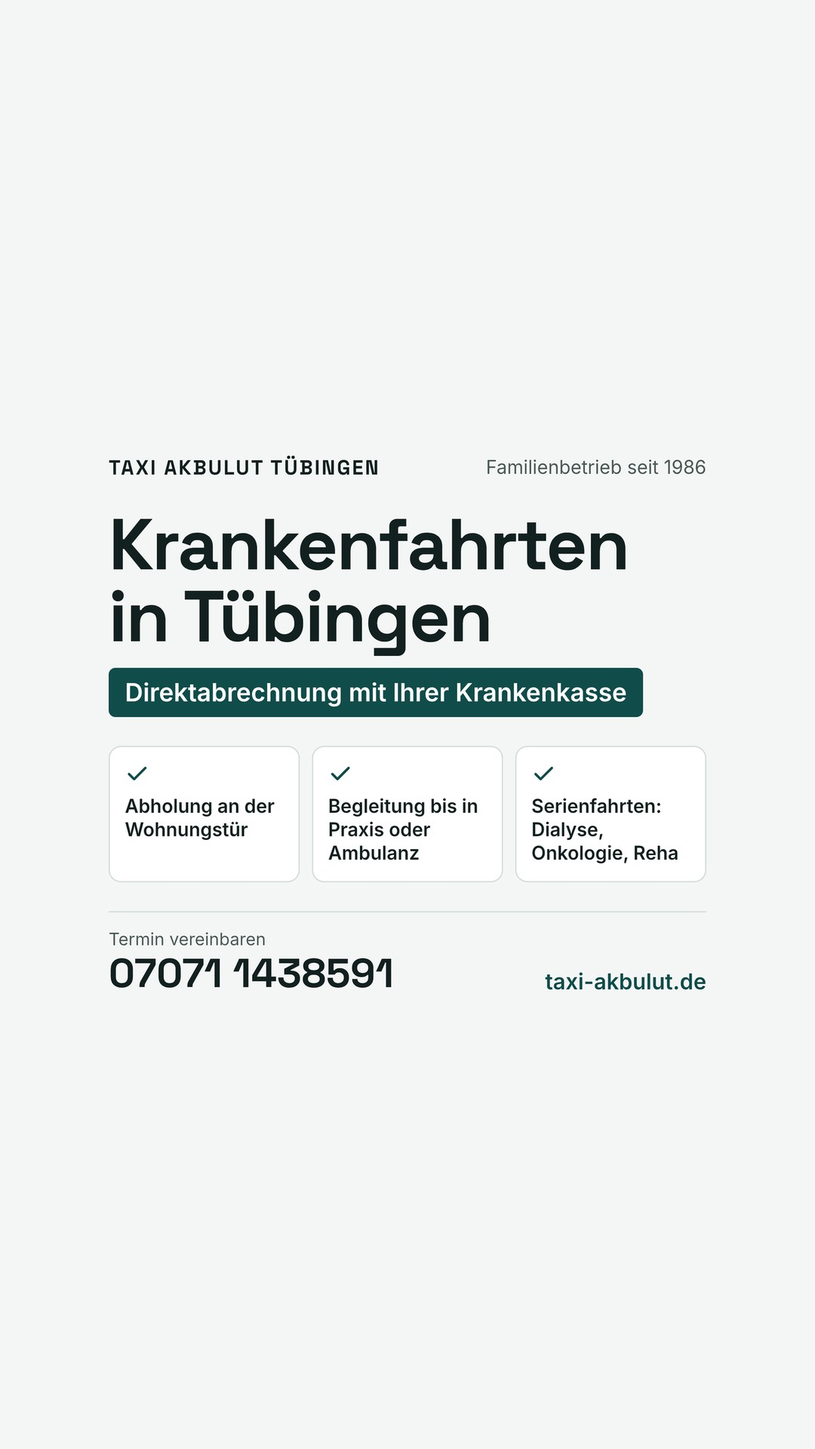
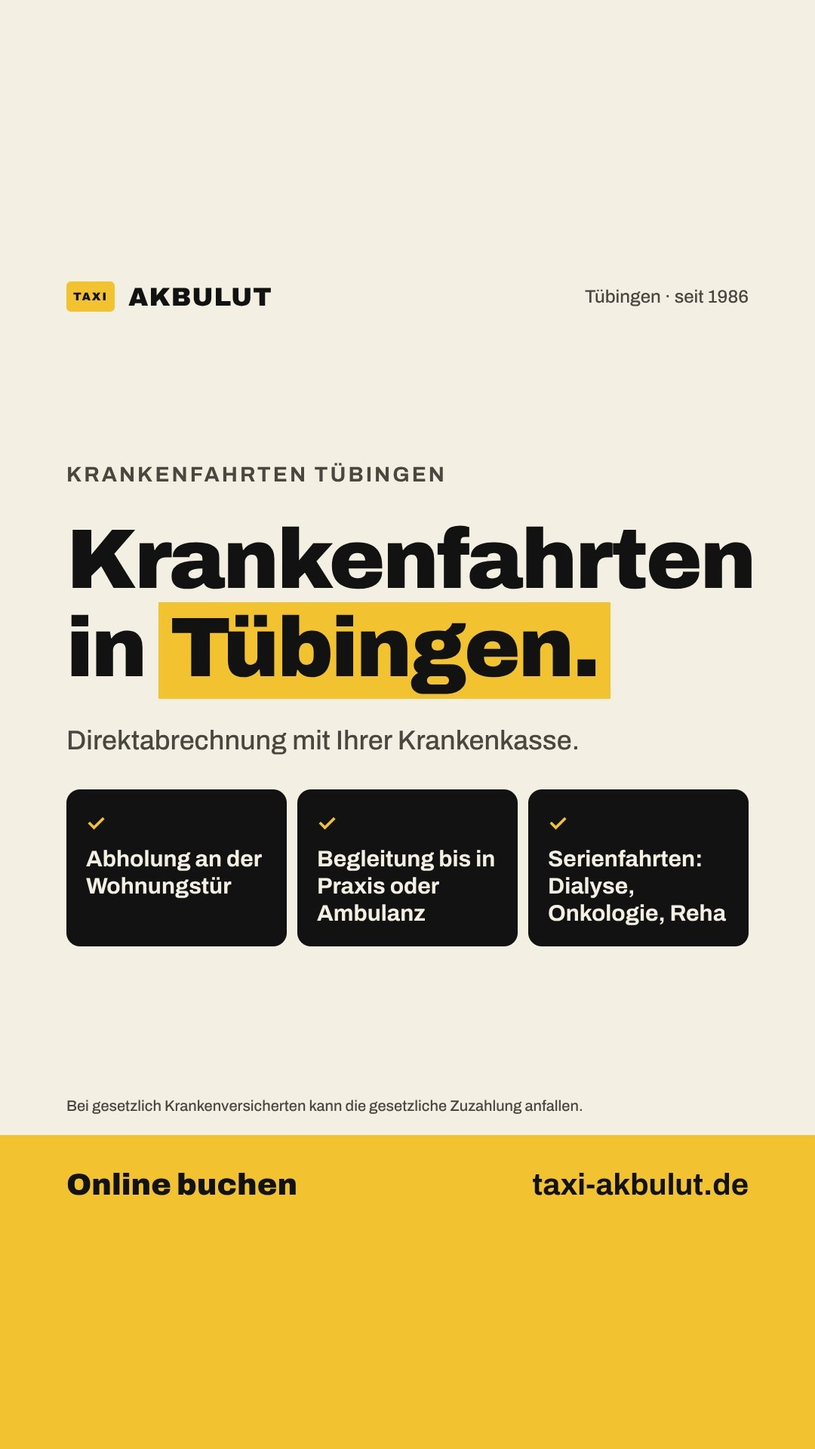
Krankenfahrten-Serie g01–g05 im Hausstil neu gerendert, Fakten ergänzt
Claude-Session: https://claude.ai/code/session_01BM3LR5oLC5knJwGmpcw9dv

diff --git a/motive/g02-chemo-strahlentherapie.html b/motive/g02-chemo-strahlentherapie.html
@@ -1,0 +1,17 @@
+<div style="width: 1080px; height: 1350px; box-sizing: border-box; background: #121212; color: #F4EFE3; font-family: 'Archivo', sans-serif; display: flex; flex-direction: column; padding: 88px; position: relative; overflow: hidden">
+<div style="display: flex; justify-content: space-between; align-items: center">
+<div style="display: flex; align-items: center; gap: 18px">
+<div style="width: 64px; height: 40px; background: #F2C230; color: #121212; border-radius: 6px; display: flex; align-items: center; justify-content: center; font-weight: 900; font-size: 15px; letter-spacing: 2px">TAXI</div>
+<div style="font-weight: 900; font-size: 34px; letter-spacing: 1px">AKBULUT</div>
+</div>
+<div style="font-weight: 500; font-size: 24px; color: #C9C3B6">Tübingen · seit 1986</div>
+</div>
+<div style="flex-grow: 1; display: flex; flex-direction: column; justify-content: center; gap: 40px">
+<div style="font-weight: 700; font-size: 28px; letter-spacing: 3px; color: #F2C230">KRANKENFAHRTEN ZU DEN TÜBINGER KLINIKEN</div><h1 style="margin: 0; font-weight: 900; font-size: 96px; line-height: 1.04; letter-spacing: -3px">Fahrten zur<br>Chemo- und<br><span style="background: #F2C230; color: #121212; padding: 0 16px 6px; white-space: nowrap">Strahlentherapie.</span></h1><p style="margin: 0; font-weight: 500; font-size: 32px; line-height: 1.35; color: #F4EFE3; max-width: 880px">Wir fahren Sie in diese Kliniken:</p><div style="display: grid; grid-template-columns: repeat(2, minmax(0, 1fr)); gap: 14px"><div style="background: #2A2926; color: #F4EFE3; border-radius: 18px; padding: 26px 26px; display: flex; flex-direction: column; gap: 12px"><span style="font-weight: 900; font-size: 30px; color: #F2C230">✓</span><span style="font-weight: 700; font-size: 34px; line-height: 1.2">Crona Kliniken</span></div><div style="background: #2A2926; color: #F4EFE3; border-radius: 18px; padding: 26px 26px; display: flex; flex-direction: column; gap: 12px"><span style="font-weight: 900; font-size: 30px; color: #F2C230">✓</span><span style="font-weight: 700; font-size: 34px; line-height: 1.2">Medizinische Klinik</span></div><div style="background: #2A2926; color: #F4EFE3; border-radius: 18px; padding: 26px 26px; display: flex; flex-direction: column; gap: 12px"><span style="font-weight: 900; font-size: 30px; color: #F2C230">✓</span><span style="font-weight: 700; font-size: 34px; line-height: 1.2">Frauenklinik</span></div><div style="background: #2A2926; color: #F4EFE3; border-radius: 18px; padding: 26px 26px; display: flex; flex-direction: column; gap: 12px"><span style="font-weight: 900; font-size: 30px; color: #F2C230">✓</span><span style="font-weight: 700; font-size: 34px; line-height: 1.2">Hautklinik</span></div></div>
+</div>
+<div style="font-weight: 500; font-size: 20px; color: #C9C3B6; margin-bottom: 28px">Direktabrechnung mit gesetzlichen Krankenkassen. Bei gesetzlich Krankenversicherten kann die gesetzliche Zuzahlung anfallen.</div>
+<div style="background: #F2C230; color: #121212; margin: 0 -88px -88px; padding: 44px 88px; display: flex; justify-content: space-between; align-items: center">
+<div style="font-weight: 900; font-size: 40px">Online buchen</div>
+<div style="font-weight: 700; font-size: 40px">taxi-akbulut.de</div>
+</div>
+</div>

diff --git a/vorlagen/g02-chemo-strahlentherapie.html b/vorlagen/g02-chemo-strahlentherapie.html
@@ -1,0 +1,17 @@
+<div style="width: 1080px; height: 1350px; box-sizing: border-box; background: #121212; color: #F4EFE3; font-family: 'Archivo', sans-serif; display: flex; flex-direction: column; padding: 88px; position: relative; overflow: hidden">
+<div style="display: flex; justify-content: space-between; align-items: center">
+<div style="display: flex; align-items: center; gap: 18px">
+<div style="width: 64px; height: 40px; background: #F2C230; color: #121212; border-radius: 6px; display: flex; align-items: center; justify-content: center; font-weight: 900; font-size: 15px; letter-spacing: 2px">TAXI</div>
+<div style="font-weight: 900; font-size: 34px; letter-spacing: 1px">AKBULUT</div>
+</div>
+<div style="font-weight: 500; font-size: 24px; color: #C9C3B6">Tübingen · seit 1986</div>
+</div>
+<div style="flex-grow: 1; display: flex; flex-direction: column; justify-content: center; gap: 40px">
+<div style="font-weight: 700; font-size: 28px; letter-spacing: 3px; color: #F2C230">KRANKENFAHRTEN ZU DEN TÜBINGER KLINIKEN</div><h1 style="margin: 0; font-weight: 900; font-size: 96px; line-height: 1.04; letter-spacing: -3px">Fahrten zur<br>Chemo- und<br><span style="background: #F2C230; color: #121212; padding: 0 16px 6px; white-space: nowrap">Strahlentherapie.</span></h1><p style="margin: 0; font-weight: 500; font-size: 32px; line-height: 1.35; color: #F4EFE3; max-width: 880px">Wir fahren Sie in diese Kliniken:</p><div style="display: grid; grid-template-columns: repeat(2, minmax(0, 1fr)); gap: 14px"><div style="background: #2A2926; color: #F4EFE3; border-radius: 18px; padding: 26px 26px; display: flex; flex-direction: column; gap: 12px"><span style="font-weight: 900; font-size: 30px; color: #F2C230">✓</span><span style="font-weight: 700; font-size: 34px; line-height: 1.2">Crona Kliniken</span></div><div style="background: #2A2926; color: #F4EFE3; border-radius: 18px; padding: 26px 26px; display: flex; flex-direction: column; gap: 12px"><span style="font-weight: 900; font-size: 30px; color: #F2C230">✓</span><span style="font-weight: 700; font-size: 34px; line-height: 1.2">Medizinische Klinik</span></div><div style="background: #2A2926; color: #F4EFE3; border-radius: 18px; padding: 26px 26px; display: flex; flex-direction: column; gap: 12px"><span style="font-weight: 900; font-size: 30px; color: #F2C230">✓</span><span style="font-weight: 700; font-size: 34px; line-height: 1.2">Frauenklinik</span></div><div style="background: #2A2926; color: #F4EFE3; border-radius: 18px; padding: 26px 26px; display: flex; flex-direction: column; gap: 12px"><span style="font-weight: 900; font-size: 30px; color: #F2C230">✓</span><span style="font-weight: 700; font-size: 34px; line-height: 1.2">Hautklinik</span></div></div>
+</div>
+<div style="font-weight: 500; font-size: 20px; color: #C9C3B6; margin-bottom: 28px">Direktabrechnung mit gesetzlichen Krankenkassen. Bei gesetzlich Krankenversicherten kann die gesetzliche Zuzahlung anfallen.</div>
+<div style="background: #F2C230; color: #121212; margin: 0 -88px -88px; padding: 44px 88px; display: flex; justify-content: space-between; align-items: center">
+<div style="font-weight: 900; font-size: 40px">Online buchen</div>
+<div style="font-weight: 700; font-size: 40px">taxi-akbulut.de</div>
+</div>
+</div>

diff --git a/motive/g05-genehmigung-check.html b/motive/g05-genehmigung-check.html
@@ -1,0 +1,17 @@
+<div style="width: 1080px; height: 1350px; box-sizing: border-box; background: #121212; color: #F4EFE3; font-family: 'Archivo', sans-serif; display: flex; flex-direction: column; padding: 88px; position: relative; overflow: hidden">
+<div style="display: flex; justify-content: space-between; align-items: center">
+<div style="display: flex; align-items: center; gap: 18px">
+<div style="width: 64px; height: 40px; background: #F2C230; color: #121212; border-radius: 6px; display: flex; align-items: center; justify-content: center; font-weight: 900; font-size: 15px; letter-spacing: 2px">TAXI</div>
+<div style="font-weight: 900; font-size: 34px; letter-spacing: 1px">AKBULUT</div>
+</div>
+<div style="font-weight: 500; font-size: 24px; color: #C9C3B6">Tübingen · seit 1986</div>
+</div>
+<div style="flex-grow: 1; display: flex; flex-direction: column; justify-content: center; gap: 40px">
+<div style="font-weight: 700; font-size: 28px; letter-spacing: 3px; color: #F2C230">KRANKENFAHRT · ONLINE-CHECK</div><h1 style="margin: 0; font-weight: 900; font-size: 116px; line-height: 1.04; letter-spacing: -3px">Genehmigung<br><span style="background: #F2C230; color: #121212; padding: 0 16px 6px; white-space: nowrap">nötig?</span></h1><p style="margin: 0; font-weight: 500; font-size: 34px; line-height: 1.35; color: #F4EFE3; max-width: 880px">Höchstens 5 Fragen, Ergebnis sofort, ohne Anmeldung. Eines von drei Ergebnissen:</p><div style="display: grid; grid-template-columns: repeat(3, minmax(0, 1fr)); gap: 14px"><div style="background: #2A2926; color: #F4EFE3; border-radius: 18px; padding: 26px 26px; display: flex; flex-direction: column; gap: 12px"><span style="font-weight: 900; font-size: 30px; color: #F2C230">✓</span><span style="font-weight: 700; font-size: 32px; line-height: 1.2">Genehmigungs&shy;frei</span></div><div style="background: #2A2926; color: #F4EFE3; border-radius: 18px; padding: 26px 26px; display: flex; flex-direction: column; gap: 12px"><span style="font-weight: 900; font-size: 30px; color: #F2C230">✓</span><span style="font-weight: 700; font-size: 32px; line-height: 1.2">Antrag nötig</span></div><div style="background: #2A2926; color: #F4EFE3; border-radius: 18px; padding: 26px 26px; display: flex; flex-direction: column; gap: 12px"><span style="font-weight: 900; font-size: 30px; color: #F2C230">✓</span><span style="font-weight: 700; font-size: 32px; line-height: 1.2">Keine Übernahme</span></div></div><div style="font-weight: 900; font-size: 36px; white-space: nowrap; color: #F2C230">taxi-akbulut.de/krankenfahrten-tuebingen</div>
+</div>
+<div style="font-weight: 500; font-size: 20px; color: #C9C3B6; margin-bottom: 28px">Grundlage: § 60 SGB V und Krankentransport-Richtlinie. Im Einzelfall entscheidet Ihre Krankenkasse.</div>
+<div style="background: #F2C230; color: #121212; margin: 0 -88px -88px; padding: 44px 88px; display: flex; justify-content: space-between; align-items: center">
+<div style="font-weight: 900; font-size: 40px">Jetzt prüfen</div>
+<div style="font-weight: 700; font-size: 40px">taxi-akbulut.de</div>
+</div>
+</div>

diff --git a/vorlagen/g05-genehmigung-check.html b/vorlagen/g05-genehmigung-check.html
@@ -1,0 +1,17 @@
+<div style="width: 1080px; height: 1350px; box-sizing: border-box; background: #121212; color: #F4EFE3; font-family: 'Archivo', sans-serif; display: flex; flex-direction: column; padding: 88px; position: relative; overflow: hidden">
+<div style="display: flex; justify-content: space-between; align-items: center">
+<div style="display: flex; align-items: center; gap: 18px">
+<div style="width: 64px; height: 40px; background: #F2C230; color: #121212; border-radius: 6px; display: flex; align-items: center; justify-content: center; font-weight: 900; font-size: 15px; letter-spacing: 2px">TAXI</div>
+<div style="font-weight: 900; font-size: 34px; letter-spacing: 1px">AKBULUT</div>
+</div>
+<div style="font-weight: 500; font-size: 24px; color: #C9C3B6">Tübingen · seit 1986</div>
+</div>
+<div style="flex-grow: 1; display: flex; flex-direction: column; justify-content: center; gap: 40px">
+<div style="font-weight: 700; font-size: 28px; letter-spacing: 3px; color: #F2C230">KRANKENFAHRT · ONLINE-CHECK</div><h1 style="margin: 0; font-weight: 900; font-size: 116px; line-height: 1.04; letter-spacing: -3px">Genehmigung<br><span style="background: #F2C230; color: #121212; padding: 0 16px 6px; white-space: nowrap">nötig?</span></h1><p style="margin: 0; font-weight: 500; font-size: 34px; line-height: 1.35; color: #F4EFE3; max-width: 880px">Höchstens 5 Fragen, Ergebnis sofort, ohne Anmeldung. Eines von drei Ergebnissen:</p><div style="display: grid; grid-template-columns: repeat(3, minmax(0, 1fr)); gap: 14px"><div style="background: #2A2926; color: #F4EFE3; border-radius: 18px; padding: 26px 26px; display: flex; flex-direction: column; gap: 12px"><span style="font-weight: 900; font-size: 30px; color: #F2C230">✓</span><span style="font-weight: 700; font-size: 32px; line-height: 1.2">Genehmigungs&shy;frei</span></div><div style="background: #2A2926; color: #F4EFE3; border-radius: 18px; padding: 26px 26px; display: flex; flex-direction: column; gap: 12px"><span style="font-weight: 900; font-size: 30px; color: #F2C230">✓</span><span style="font-weight: 700; font-size: 32px; line-height: 1.2">Antrag nötig</span></div><div style="background: #2A2926; color: #F4EFE3; border-radius: 18px; padding: 26px 26px; display: flex; flex-direction: column; gap: 12px"><span style="font-weight: 900; font-size: 30px; color: #F2C230">✓</span><span style="font-weight: 700; font-size: 32px; line-height: 1.2">Keine Übernahme</span></div></div><div style="font-weight: 900; font-size: 36px; white-space: nowrap; color: #F2C230">taxi-akbulut.de/krankenfahrten-tuebingen</div>
+</div>
+<div style="font-weight: 500; font-size: 20px; color: #C9C3B6; margin-bottom: 28px">Grundlage: § 60 SGB V und Krankentransport-Richtlinie. Im Einzelfall entscheidet Ihre Krankenkasse.</div>
+<div style="background: #F2C230; color: #121212; margin: 0 -88px -88px; padding: 44px 88px; display: flex; justify-content: space-between; align-items: center">
+<div style="font-weight: 900; font-size: 40px">Jetzt prüfen</div>
+<div style="font-weight: 700; font-size: 40px">taxi-akbulut.de</div>
+</div>
+</div>

diff --git a/motive/g03-entlassfahrten.html b/motive/g03-entlassfahrten.html
@@ -1,0 +1,17 @@
+<div style="width: 1080px; height: 1350px; box-sizing: border-box; background: #F2C230; color: #121212; font-family: 'Archivo', sans-serif; display: flex; flex-direction: column; padding: 88px; position: relative; overflow: hidden">
+<div style="display: flex; justify-content: space-between; align-items: center">
+<div style="display: flex; align-items: center; gap: 18px">
+<div style="width: 64px; height: 40px; background: #121212; color: #F2C230; border-radius: 6px; display: flex; align-items: center; justify-content: center; font-weight: 900; font-size: 15px; letter-spacing: 2px">TAXI</div>
+<div style="font-weight: 900; font-size: 34px; letter-spacing: 1px">AKBULUT</div>
+</div>
+<div style="font-weight: 500; font-size: 24px; color: #2B2924">Tübingen · seit 1986</div>
+</div>
+<div style="flex-grow: 1; display: flex; flex-direction: column; justify-content: center; gap: 40px">
+<div style="font-weight: 700; font-size: 28px; letter-spacing: 3px; color: #2B2924">HEIMFAHRT NACH DEM KLINIKAUFENTHALT</div><h1 style="margin: 0; font-weight: 900; font-size: 108px; line-height: 1.04; letter-spacing: -3px">Entlassfahrten<br><span style="background: #121212; color: #F2C230; padding: 0 16px 6px; white-space: nowrap">ab der Klinik.</span></h1><p style="margin: 0; font-weight: 500; font-size: 36px; line-height: 1.35; color: #2B2924; max-width: 880px">Direktabrechnung mit gesetzlichen Krankenkassen.</p><div style="display: grid; grid-template-columns: repeat(3, minmax(0, 1fr)); gap: 14px"><div style="background: #FFFFFF; color: #121212; border-radius: 18px; padding: 26px 26px; display: flex; flex-direction: column; gap: 12px"><span style="font-weight: 900; font-size: 30px; color: #121212">✓</span><span style="font-weight: 700; font-size: 30px; line-height: 1.2">Abholung direkt an der Klinik</span></div><div style="background: #FFFFFF; color: #121212; border-radius: 18px; padding: 26px 26px; display: flex; flex-direction: column; gap: 12px"><span style="font-weight: 900; font-size: 30px; color: #121212">✓</span><span style="font-weight: 700; font-size: 30px; line-height: 1.2">Faltbarer Rollstuhl fährt mit</span></div><div style="background: #FFFFFF; color: #121212; border-radius: 18px; padding: 26px 26px; display: flex; flex-direction: column; gap: 12px"><span style="font-weight: 900; font-size: 30px; color: #121212">✓</span><span style="font-weight: 700; font-size: 30px; line-height: 1.2">Heimfahrten deutschlandweit</span></div></div>
+</div>
+<div style="font-weight: 500; font-size: 20px; color: #2B2924; margin-bottom: 28px">Bei gesetzlich Krankenversicherten kann die gesetzliche Zuzahlung anfallen. Für Fahrten im Sitzen.</div>
+<div style="background: #121212; color: #F4EFE3; margin: 0 -88px -88px; padding: 44px 88px; display: flex; justify-content: space-between; align-items: center">
+<div style="font-weight: 900; font-size: 40px">Online buchen</div>
+<div style="font-weight: 700; font-size: 40px">taxi-akbulut.de</div>
+</div>
+</div>

diff --git a/vorlagen/g03-entlassfahrten.html b/vorlagen/g03-entlassfahrten.html
@@ -1,0 +1,17 @@
+<div style="width: 1080px; height: 1350px; box-sizing: border-box; background: #F2C230; color: #121212; font-family: 'Archivo', sans-serif; display: flex; flex-direction: column; padding: 88px; position: relative; overflow: hidden">
+<div style="display: flex; justify-content: space-between; align-items: center">
+<div style="display: flex; align-items: center; gap: 18px">
+<div style="width: 64px; height: 40px; background: #121212; color: #F2C230; border-radius: 6px; display: flex; align-items: center; justify-content: center; font-weight: 900; font-size: 15px; letter-spacing: 2px">TAXI</div>
+<div style="font-weight: 900; font-size: 34px; letter-spacing: 1px">AKBULUT</div>
+</div>
+<div style="font-weight: 500; font-size: 24px; color: #2B2924">Tübingen · seit 1986</div>
+</div>
+<div style="flex-grow: 1; display: flex; flex-direction: column; justify-content: center; gap: 40px">
+<div style="font-weight: 700; font-size: 28px; letter-spacing: 3px; color: #2B2924">HEIMFAHRT NACH DEM KLINIKAUFENTHALT</div><h1 style="margin: 0; font-weight: 900; font-size: 108px; line-height: 1.04; letter-spacing: -3px">Entlassfahrten<br><span style="background: #121212; color: #F2C230; padding: 0 16px 6px; white-space: nowrap">ab der Klinik.</span></h1><p style="margin: 0; font-weight: 500; font-size: 36px; line-height: 1.35; color: #2B2924; max-width: 880px">Direktabrechnung mit gesetzlichen Krankenkassen.</p><div style="display: grid; grid-template-columns: repeat(3, minmax(0, 1fr)); gap: 14px"><div style="background: #FFFFFF; color: #121212; border-radius: 18px; padding: 26px 26px; display: flex; flex-direction: column; gap: 12px"><span style="font-weight: 900; font-size: 30px; color: #121212">✓</span><span style="font-weight: 700; font-size: 30px; line-height: 1.2">Abholung direkt an der Klinik</span></div><div style="background: #FFFFFF; color: #121212; border-radius: 18px; padding: 26px 26px; display: flex; flex-direction: column; gap: 12px"><span style="font-weight: 900; font-size: 30px; color: #121212">✓</span><span style="font-weight: 700; font-size: 30px; line-height: 1.2">Faltbarer Rollstuhl fährt mit</span></div><div style="background: #FFFFFF; color: #121212; border-radius: 18px; padding: 26px 26px; display: flex; flex-direction: column; gap: 12px"><span style="font-weight: 900; font-size: 30px; color: #121212">✓</span><span style="font-weight: 700; font-size: 30px; line-height: 1.2">Heimfahrten deutschlandweit</span></div></div>
+</div>
+<div style="font-weight: 500; font-size: 20px; color: #2B2924; margin-bottom: 28px">Bei gesetzlich Krankenversicherten kann die gesetzliche Zuzahlung anfallen. Für Fahrten im Sitzen.</div>
+<div style="background: #121212; color: #F4EFE3; margin: 0 -88px -88px; padding: 44px 88px; display: flex; justify-content: space-between; align-items: center">
+<div style="font-weight: 900; font-size: 40px">Online buchen</div>
+<div style="font-weight: 700; font-size: 40px">taxi-akbulut.de</div>
+</div>
+</div>

diff --git a/motive/g01-krankenfahrten-tuebingen.html b/motive/g01-krankenfahrten-tuebingen.html
@@ -1,0 +1,17 @@
+<div style="width: 1080px; height: 1350px; box-sizing: border-box; background: #F4EFE3; color: #121212; font-family: 'Archivo', sans-serif; display: flex; flex-direction: column; padding: 88px; position: relative; overflow: hidden">
+<div style="display: flex; justify-content: space-between; align-items: center">
+<div style="display: flex; align-items: center; gap: 18px">
+<div style="width: 64px; height: 40px; background: #F2C230; color: #121212; border-radius: 6px; display: flex; align-items: center; justify-content: center; font-weight: 900; font-size: 15px; letter-spacing: 2px">TAXI</div>
+<div style="font-weight: 900; font-size: 34px; letter-spacing: 1px">AKBULUT</div>
+</div>
+<div style="font-weight: 500; font-size: 24px; color: #4A4740">Tübingen · seit 1986</div>
+</div>
+<div style="flex-grow: 1; display: flex; flex-direction: column; justify-content: center; gap: 40px">
+<div style="font-weight: 700; font-size: 28px; letter-spacing: 3px; color: #4A4740">KRANKENFAHRTEN TÜBINGEN</div><h1 style="margin: 0; font-weight: 900; font-size: 112px; line-height: 1.04; letter-spacing: -3px">Krankenfahrten<br>in <span style="background: #F2C230; color: #121212; padding: 0 16px 6px; white-space: nowrap">Tübingen.</span></h1><p style="margin: 0; font-weight: 500; font-size: 36px; line-height: 1.35; color: #4A4740; max-width: 880px">Direktabrechnung mit Ihrer Krankenkasse.</p><div style="display: grid; grid-template-columns: repeat(3, minmax(0, 1fr)); gap: 14px"><div style="background: #121212; color: #F4EFE3; border-radius: 18px; padding: 26px 26px; display: flex; flex-direction: column; gap: 12px"><span style="font-weight: 900; font-size: 30px; color: #F2C230">✓</span><span style="font-weight: 700; font-size: 30px; line-height: 1.2">Abholung an der Wohnungstür</span></div><div style="background: #121212; color: #F4EFE3; border-radius: 18px; padding: 26px 26px; display: flex; flex-direction: column; gap: 12px"><span style="font-weight: 900; font-size: 30px; color: #F2C230">✓</span><span style="font-weight: 700; font-size: 30px; line-height: 1.2">Begleitung bis in Praxis oder Ambulanz</span></div><div style="background: #121212; color: #F4EFE3; border-radius: 18px; padding: 26px 26px; display: flex; flex-direction: column; gap: 12px"><span style="font-weight: 900; font-size: 30px; color: #F2C230">✓</span><span style="font-weight: 700; font-size: 30px; line-height: 1.2">Serienfahrten: Dialyse, Onkologie, Reha</span></div></div>
+</div>
+<div style="font-weight: 500; font-size: 20px; color: #4A4740; margin-bottom: 28px">Bei gesetzlich Krankenversicherten kann die gesetzliche Zuzahlung anfallen.</div>
+<div style="background: #F2C230; color: #121212; margin: 0 -88px -88px; padding: 44px 88px; display: flex; justify-content: space-between; align-items: center">
+<div style="font-weight: 900; font-size: 40px">Online buchen</div>
+<div style="font-weight: 700; font-size: 40px">taxi-akbulut.de</div>
+</div>
+</div>

diff --git a/vorlagen/g01-krankenfahrten-tuebingen.html b/vorlagen/g01-krankenfahrten-tuebingen.html
@@ -1,0 +1,17 @@
+<div style="width: 1080px; height: 1350px; box-sizing: border-box; background: #F4EFE3; color: #121212; font-family: 'Archivo', sans-serif; display: flex; flex-direction: column; padding: 88px; position: relative; overflow: hidden">
+<div style="display: flex; justify-content: space-between; align-items: center">
+<div style="display: flex; align-items: center; gap: 18px">
+<div style="width: 64px; height: 40px; background: #F2C230; color: #121212; border-radius: 6px; display: flex; align-items: center; justify-content: center; font-weight: 900; font-size: 15px; letter-spacing: 2px">TAXI</div>
+<div style="font-weight: 900; font-size: 34px; letter-spacing: 1px">AKBULUT</div>
+</div>
+<div style="font-weight: 500; font-size: 24px; color: #4A4740">Tübingen · seit 1986</div>
+</div>
+<div style="flex-grow: 1; display: flex; flex-direction: column; justify-content: center; gap: 40px">
+<div style="font-weight: 700; font-size: 28px; letter-spacing: 3px; color: #4A4740">KRANKENFAHRTEN TÜBINGEN</div><h1 style="margin: 0; font-weight: 900; font-size: 112px; line-height: 1.04; letter-spacing: -3px">Krankenfahrten<br>in <span style="background: #F2C230; color: #121212; padding: 0 16px 6px; white-space: nowrap">Tübingen.</span></h1><p style="margin: 0; font-weight: 500; font-size: 36px; line-height: 1.35; color: #4A4740; max-width: 880px">Direktabrechnung mit Ihrer Krankenkasse.</p><div style="display: grid; grid-template-columns: repeat(3, minmax(0, 1fr)); gap: 14px"><div style="background: #121212; color: #F4EFE3; border-radius: 18px; padding: 26px 26px; display: flex; flex-direction: column; gap: 12px"><span style="font-weight: 900; font-size: 30px; color: #F2C230">✓</span><span style="font-weight: 700; font-size: 30px; line-height: 1.2">Abholung an der Wohnungstür</span></div><div style="background: #121212; color: #F4EFE3; border-radius: 18px; padding: 26px 26px; display: flex; flex-direction: column; gap: 12px"><span style="font-weight: 900; font-size: 30px; color: #F2C230">✓</span><span style="font-weight: 700; font-size: 30px; line-height: 1.2">Begleitung bis in Praxis oder Ambulanz</span></div><div style="background: #121212; color: #F4EFE3; border-radius: 18px; padding: 26px 26px; display: flex; flex-direction: column; gap: 12px"><span style="font-weight: 900; font-size: 30px; color: #F2C230">✓</span><span style="font-weight: 700; font-size: 30px; line-height: 1.2">Serienfahrten: Dialyse, Onkologie, Reha</span></div></div>
+</div>
+<div style="font-weight: 500; font-size: 20px; color: #4A4740; margin-bottom: 28px">Bei gesetzlich Krankenversicherten kann die gesetzliche Zuzahlung anfallen.</div>
+<div style="background: #F2C230; color: #121212; margin: 0 -88px -88px; padding: 44px 88px; display: flex; justify-content: space-between; align-items: center">
+<div style="font-weight: 900; font-size: 40px">Online buchen</div>
+<div style="font-weight: 700; font-size: 40px">taxi-akbulut.de</div>
+</div>
+</div>

diff --git a/motive/g04-kinder-jugendpsychiatrie.html b/motive/g04-kinder-jugendpsychiatrie.html
@@ -1,0 +1,17 @@
+<div style="width: 1080px; height: 1350px; box-sizing: border-box; background: #F4EFE3; color: #121212; font-family: 'Archivo', sans-serif; display: flex; flex-direction: column; padding: 88px; position: relative; overflow: hidden">
+<div style="display: flex; justify-content: space-between; align-items: center">
+<div style="display: flex; align-items: center; gap: 18px">
+<div style="width: 64px; height: 40px; background: #F2C230; color: #121212; border-radius: 6px; display: flex; align-items: center; justify-content: center; font-weight: 900; font-size: 15px; letter-spacing: 2px">TAXI</div>
+<div style="font-weight: 900; font-size: 34px; letter-spacing: 1px">AKBULUT</div>
+</div>
+<div style="font-weight: 500; font-size: 24px; color: #4A4740">Tübingen · seit 1986</div>
+</div>
+<div style="flex-grow: 1; display: flex; flex-direction: column; justify-content: center; gap: 40px">
+<div style="font-weight: 700; font-size: 28px; letter-spacing: 3px; color: #4A4740">KRANKENFAHRTEN FÜR KINDER UND JUGENDLICHE</div><h1 style="margin: 0; font-weight: 900; font-size: 92px; line-height: 1.04; letter-spacing: -3px">Fahrten zur Kinder-<br>und Jugend-<br><span style="background: #F2C230; color: #121212; padding: 0 16px 6px; white-space: nowrap">psychiatrie.</span></h1><div style="display: grid; grid-template-columns: repeat(2, minmax(0, 1fr)); gap: 14px"><div style="background: #121212; color: #F4EFE3; border-radius: 18px; padding: 26px 26px; display: flex; flex-direction: column; gap: 12px"><span style="font-weight: 900; font-size: 30px; color: #F2C230">✓</span><span style="font-weight: 700; font-size: 34px; line-height: 1.2">Live-Tracking-Link für die Eltern</span></div><div style="background: #121212; color: #F4EFE3; border-radius: 18px; padding: 26px 26px; display: flex; flex-direction: column; gap: 12px"><span style="font-weight: 900; font-size: 30px; color: #F2C230">✓</span><span style="font-weight: 700; font-size: 34px; line-height: 1.2">Direktabrechnung mit den gesetzlichen Krankenkassen</span></div></div>
+</div>
+<div style="font-weight: 500; font-size: 20px; color: #4A4740; margin-bottom: 28px">Kinder- und Jugendpsychiatrie Tübingen. Bei gesetzlich Krankenversicherten kann die gesetzliche Zuzahlung anfallen.</div>
+<div style="background: #F2C230; color: #121212; margin: 0 -88px -88px; padding: 44px 88px; display: flex; justify-content: space-between; align-items: center">
+<div style="font-weight: 900; font-size: 40px">Online buchen</div>
+<div style="font-weight: 700; font-size: 40px">taxi-akbulut.de</div>
+</div>
+</div>

diff --git a/vorlagen/g04-kinder-jugendpsychiatrie.html b/vorlagen/g04-kinder-jugendpsychiatrie.html
@@ -1,0 +1,17 @@
+<div style="width: 1080px; height: 1350px; box-sizing: border-box; background: #F4EFE3; color: #121212; font-family: 'Archivo', sans-serif; display: flex; flex-direction: column; padding: 88px; position: relative; overflow: hidden">
+<div style="display: flex; justify-content: space-between; align-items: center">
+<div style="display: flex; align-items: center; gap: 18px">
+<div style="width: 64px; height: 40px; background: #F2C230; color: #121212; border-radius: 6px; display: flex; align-items: center; justify-content: center; font-weight: 900; font-size: 15px; letter-spacing: 2px">TAXI</div>
+<div style="font-weight: 900; font-size: 34px; letter-spacing: 1px">AKBULUT</div>
+</div>
+<div style="font-weight: 500; font-size: 24px; color: #4A4740">Tübingen · seit 1986</div>
+</div>
+<div style="flex-grow: 1; display: flex; flex-direction: column; justify-content: center; gap: 40px">
+<div style="font-weight: 700; font-size: 28px; letter-spacing: 3px; color: #4A4740">KRANKENFAHRTEN FÜR KINDER UND JUGENDLICHE</div><h1 style="margin: 0; font-weight: 900; font-size: 92px; line-height: 1.04; letter-spacing: -3px">Fahrten zur Kinder-<br>und Jugend-<br><span style="background: #F2C230; color: #121212; padding: 0 16px 6px; white-space: nowrap">psychiatrie.</span></h1><div style="display: grid; grid-template-columns: repeat(2, minmax(0, 1fr)); gap: 14px"><div style="background: #121212; color: #F4EFE3; border-radius: 18px; padding: 26px 26px; display: flex; flex-direction: column; gap: 12px"><span style="font-weight: 900; font-size: 30px; color: #F2C230">✓</span><span style="font-weight: 700; font-size: 34px; line-height: 1.2">Live-Tracking-Link für die Eltern</span></div><div style="background: #121212; color: #F4EFE3; border-radius: 18px; padding: 26px 26px; display: flex; flex-direction: column; gap: 12px"><span style="font-weight: 900; font-size: 30px; color: #F2C230">✓</span><span style="font-weight: 700; font-size: 34px; line-height: 1.2">Direktabrechnung mit den gesetzlichen Krankenkassen</span></div></div>
+</div>
+<div style="font-weight: 500; font-size: 20px; color: #4A4740; margin-bottom: 28px">Kinder- und Jugendpsychiatrie Tübingen. Bei gesetzlich Krankenversicherten kann die gesetzliche Zuzahlung anfallen.</div>
+<div style="background: #F2C230; color: #121212; margin: 0 -88px -88px; padding: 44px 88px; display: flex; justify-content: space-between; align-items: center">
+<div style="font-weight: 900; font-size: 40px">Online buchen</div>
+<div style="font-weight: 700; font-size: 40px">taxi-akbulut.de</div>
+</div>
+</div>

diff --git a/vorlagen/g_build.py b/vorlagen/g_build.py
@@ -1,0 +1,65 @@
+"""Baut die Krankenfahrt-Serie g01–g05 im Hausstil (Archivo, Elfenbein/Schwarz/Gelb)."""
+T = {
+ "hell":  dict(bg="#F4EFE3", fg="#121212", sub="#4A4740", eye="#4A4740", mbg="#F2C230", mfg="#121212",
+               cbg="#121212", cfg="#F4EFE3", acc="#F2C230", fbg="#F2C230", ffg="#121212", bbg="#F2C230", bfg="#121212"),
+ "schwarz": dict(bg="#121212", fg="#F4EFE3", sub="#C9C3B6", eye="#F2C230", mbg="#F2C230", mfg="#121212",
+               cbg="#2A2926", cfg="#F4EFE3", acc="#F2C230", fbg="#F2C230", ffg="#121212", bbg="#F2C230", bfg="#121212"),
+ "gelb":  dict(bg="#F2C230", fg="#121212", sub="#2B2924", eye="#2B2924", mbg="#121212", mfg="#F2C230",
+               cbg="#FFFFFF", cfg="#121212", acc="#121212", fbg="#121212", ffg="#F4EFE3", bbg="#121212", bfg="#F2C230"),
+}
+def mark(t, s): return f'<span style="background: {t["mbg"]}; color: {t["mfg"]}; padding: 0 16px 6px; white-space: nowrap">{s}</span>'
+def cards(t, items, cols, size=32):
+    h = "".join(f'<div style="background: {t["cbg"]}; color: {t["cfg"]}; border-radius: 18px; padding: 26px 26px; display: flex; flex-direction: column; gap: 12px"><span style="font-weight: 900; font-size: 30px; color: {t["acc"]}">✓</span><span style="font-weight: 700; font-size: {size}px; line-height: 1.2">{i}</span></div>' for i in items)
+    return f'<div style="display: grid; grid-template-columns: repeat({cols}, minmax(0, 1fr)); gap: 14px">{h}</div>'
+def para(t, s, size=36): return f'<p style="margin: 0; font-weight: 500; font-size: {size}px; line-height: 1.35; color: {t["sub"] if t["bg"]!="#121212" else "#F4EFE3"}; max-width: 880px">{s}</p>'
+def frame(theme, eyebrow, h1, h1size, middle, small, foot_l="Online buchen"):
+    t = T[theme]
+    return f'''<div style="width: 1080px; height: 1350px; box-sizing: border-box; background: {t["bg"]}; color: {t["fg"]}; font-family: 'Archivo', sans-serif; display: flex; flex-direction: column; padding: 88px; position: relative; overflow: hidden">
+<div style="display: flex; justify-content: space-between; align-items: center">
+<div style="display: flex; align-items: center; gap: 18px">
+<div style="width: 64px; height: 40px; background: {t["bbg"]}; color: {t["bfg"]}; border-radius: 6px; display: flex; align-items: center; justify-content: center; font-weight: 900; font-size: 15px; letter-spacing: 2px">TAXI</div>
+<div style="font-weight: 900; font-size: 34px; letter-spacing: 1px">AKBULUT</div>
+</div>
+<div style="font-weight: 500; font-size: 24px; color: {t["sub"]}">Tübingen · seit 1986</div>
+</div>
+<div style="flex-grow: 1; display: flex; flex-direction: column; justify-content: center; gap: 40px">
+<div style="font-weight: 700; font-size: 28px; letter-spacing: 3px; color: {t["eye"]}">{eyebrow}</div><h1 style="margin: 0; font-weight: 900; font-size: {h1size}px; line-height: 1.04; letter-spacing: -3px">{h1}</h1>{middle}
+</div>
+<div style="font-weight: 500; font-size: 20px; color: {t["sub"]}; margin-bottom: 28px">{small}</div>
+<div style="background: {t["fbg"]}; color: {t["ffg"]}; margin: 0 -88px -88px; padding: 44px 88px; display: flex; justify-content: space-between; align-items: center">
+<div style="font-weight: 900; font-size: 40px">{foot_l}</div>
+<div style="font-weight: 700; font-size: 40px">taxi-akbulut.de</div>
+</div>
+</div>
+'''
+ZZ = "Bei gesetzlich Krankenversicherten kann die gesetzliche Zuzahlung anfallen."
+M = {}
+t = T["hell"]
+M["g01-krankenfahrten-tuebingen"] = frame("hell", "KRANKENFAHRTEN TÜBINGEN",
+    "Krankenfahrten<br>in " + mark(t, "Tübingen."), 112,
+    para(t, "Direktabrechnung mit Ihrer Krankenkasse.") + cards(t, ["Abholung an der Wohnungstür", "Begleitung bis in Praxis oder Ambulanz", "Serienfahrten: Dialyse, Onkologie, Reha"], 3, 30), ZZ)
+t = T["schwarz"]
+M["g02-chemo-strahlentherapie"] = frame("schwarz", "KRANKENFAHRTEN ZU DEN TÜBINGER KLINIKEN",
+    "Fahrten zur<br>Chemo- und<br>" + mark(t, "Strahlentherapie."), 96,
+    para(t, "Wir fahren Sie in diese Kliniken:", 32) + cards(t, ["Crona Kliniken", "Medizinische Klinik", "Frauenklinik", "Hautklinik"], 2, 34),
+    "Direktabrechnung mit gesetzlichen Krankenkassen. " + ZZ)
+t = T["gelb"]
+M["g03-entlassfahrten"] = frame("gelb", "HEIMFAHRT NACH DEM KLINIKAUFENTHALT",
+    "Entlassfahrten<br>" + mark(t, "ab der Klinik."), 108,
+    para(t, "Direktabrechnung mit gesetzlichen Krankenkassen.") + cards(t, ["Abholung direkt an der Klinik", "Faltbarer Rollstuhl fährt mit", "Heimfahrten deutschlandweit"], 3, 30),
+    ZZ + " Für Fahrten im Sitzen.")
+t = T["hell"]
+M["g04-kinder-jugendpsychiatrie"] = frame("hell", "KRANKENFAHRTEN FÜR KINDER UND JUGENDLICHE",
+    "Fahrten zur Kinder-<br>und Jugend-<br>" + mark(t, "psychiatrie."), 92,
+    cards(t, ["Live-Tracking-Link für die Eltern", "Direktabrechnung mit den gesetzlichen Krankenkassen"], 2, 34),
+    "Kinder- und Jugendpsychiatrie Tübingen. " + ZZ)
+t = T["schwarz"]
+M["g05-genehmigung-check"] = frame("schwarz", "KRANKENFAHRT · ONLINE-CHECK",
+    "Genehmigung<br>" + mark(t, "nötig?"), 116,
+    para(t, "Höchstens 5 Fragen, Ergebnis sofort, ohne Anmeldung. Eines von drei Ergebnissen:", 34)
+    + cards(t, ["Genehmigungs&shy;frei", "Antrag nötig", "Keine Übernahme"], 3, 32)
+    + f'<div style="font-weight: 900; font-size: 36px; white-space: nowrap; color: #F2C230">taxi-akbulut.de/krankenfahrten-tuebingen</div>',
+    "Grundlage: § 60 SGB V und Krankentransport-Richtlinie. Im Einzelfall entscheidet Ihre Krankenkasse.", "Jetzt prüfen")
+if __name__ == "__main__":
+    for slug, html in M.items():
+        open(f"motive/{slug}.html", "w", encoding="utf-8").write(html); print(slug)

diff --git a/redaktion/REDAKTION.md b/redaktion/REDAKTION.md
@@ -15,10 +15,9 @@
 - Kein Motiv wiederholen, das in `queue/` oder `published/` schon vorkommt (Feld `motiv`, Überschrift).
 - Übersicht aller Termine: `redaktion/plan.txt` – nach jeder Änderung aktualisieren.
 
-## Krankenfahrten-Woche im Google-Stil (Vorgabe Yasin, 13.11.2026)
-- Yasin hat 5 eigene Krankenfahrt-Motive geliefert (Stil wie Google-Unternehmensprofil: 4:3, Petrol #114B4B, Inter, mit Telefonnummer). Ausnahme von Bildformat/Farben/„keine Telefonnummer“ – nur für diese Serie `g01…g05`.
+## Krankenfahrten-Serie g01–g05 (Vorgabe Yasin, 13.11.2026)
+- Inhalte aus Yasins eigenen Motiven, umgesetzt im festgelegten Hausstil (Archivo, Elfenbein/Schwarz/Gelb, 4:5). Vorlage: `vorlagen/g_build.py`. Stil bleibt immer der Hausstil, auch wenn Yasin Entwürfe in anderem Stil liefert.
 - Eingeplant 16.–20.11.2026: Di als Haupt-Post, Mo/Mi/Do/Fr zusätzlich um 12:30 in der Spur `extra`. Das ältere Chemo-Motiv `s3-krankenfahrt-chemo-strahlentherapie` ist auf 10.12.2026 12:30 (extra) verschoben.
-- Von Yasin über die Bilder bestätigt: Live-Tracking-Link für Eltern, Ziele Crona Kliniken/Medizinische Klinik/Frauenklinik/Hautklinik, Online-Genehmigungs-Check auf taxi-akbulut.de/krankenfahrten-tuebingen.
 
 ## LinkedIn-Unternehmensseite (seit 29.10.2026, Vorgabe Yasin)
 - Automatisch mitgespiegelt aus dem Haupt-Plan: nur Flughafen (`flughafen`), Event-Shuttle (`event-shuttle`), Ferntaxi (`ferntaxi`).
